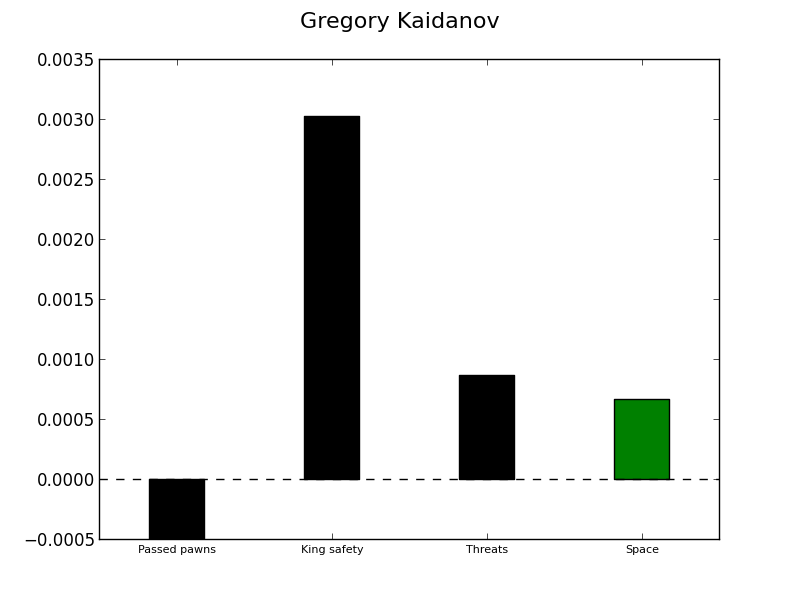
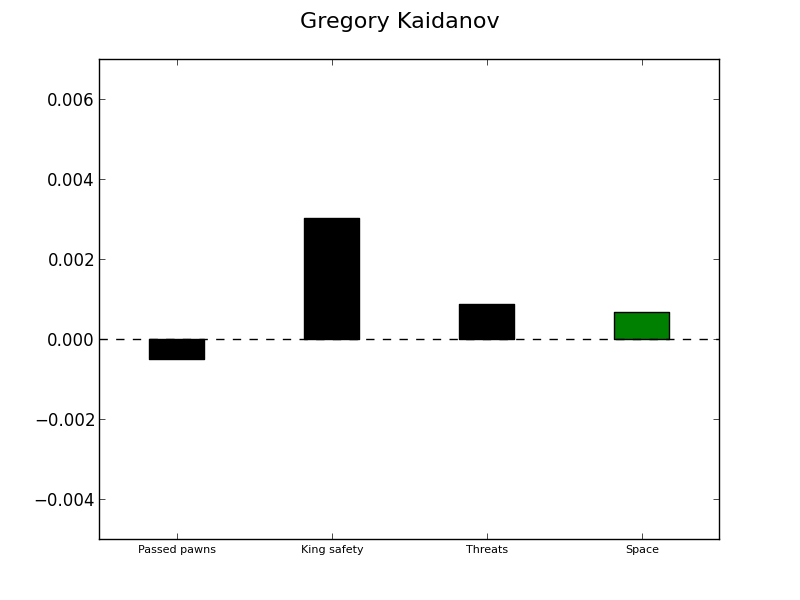
player character comparisons

diff --git a/player_character/make_player_character_comparison.py b/player_character/make_player_character_comparison.py
@@ -1,0 +1,72 @@
+import argparse
+import yaml
+import numpy as np
+from matplotlib import pyplot as plt
+import matplotlib.patches as mpatches
+import re
+
+
+parser = argparse.ArgumentParser(formatter_class=argparse.ArgumentDefaultsHelpFormatter)
+parser.add_argument("yaml_file", help="Path to the yaml file with the position choice data.", nargs=2)
+args = parser.parse_args()
+
+
+	
+p1 = open(args.yaml_file[0])
+p1_data = yaml.safe_load(p1)
+p1.close()
+
+p2 = open(args.yaml_file[1])
+p2_data = yaml.safe_load(p2)
+p2.close()
+
+
+m = open("running_choice_average.yml")
+mean_data = yaml.safe_load(m)
+m.close()
+
+attributes = ['Passed pawns','Space', 'King safety', 'Threats']
+n = np.arange(len(attributes))
+bars = []
+colors = []
+for attribute in attributes:
+	val = p1_data[attribute]['mg']['mean'] - p2_data[attribute]['mg']['mean']
+	bars.append(val) 
+	# if p_val <= 0.05:
+	if val >= 0:
+		colors.append('g')
+	else:
+		colors.append('r')
+
+
+rx = re.compile(r'\.|\/')
+parts1 = rx.split(args.yaml_file[0])
+parts2 = rx.split(args.yaml_file[1])
+
+player_name1 = parts1[len(parts1)-2]
+player_name2 = parts2[len(parts2)-2]
+
+b = plt.barh(n, bars, 0.35, align='center', color=colors)
+# plt.legend([player_name1,player_name2], loc=0)
+# plt.legend([b],[player_name1], loc=1)
+# plt.legend([b],[player_name2], loc=0)
+
+p1_patch = mpatches.Patch(color='green', label=player_name1)
+p2_patch = mpatches.Patch(color='red', label=player_name2)
+plt.legend([p2_patch, p1_patch], [player_name2, player_name1],bbox_to_anchor=(0., 1.02, 1., .102), loc=3,
+           ncol=2, mode="expand", borderaxespad=0.)
+
+plt.axvline(x=0,color='k',ls='dashed')
+
+# plt.xlim([-0.005, 0.007])
+
+plt.xlim([-0.009, 0.009])
+
+plt.yticks(n ,attributes, fontsize='12')
+# plt.suptitle(player_name2 + " v. " + player_name1, fontsize='16')
+
+# l2 = plt.legend([player_name2], loc=0)
+
+plt.savefig('graphs/' + player_name1 + "v" + player_name2 + ".png")
+plt.show()
+

diff --git a/data_spec.md b/data_spec.md
@@ -2,10 +2,10 @@
 
 ### Player Stats
 
-* **Mobility** A number from 0-100.
-* **Positional** A number from 0-100.
-* **Tactical** A number from 0-100.
-* **Materialistic** A number from 0-100.
+* **Threats** A number from 0-100.
+* **King safety** A number from 0-100.
+* **Space** A number from 0-100.
+* **Passed pawns** A number from 0-100.
 * **Queen Trade Frequency** A percentage from 0-100 representing how often queen trades occur in their games (0-100). (only present if statistically significant, otherwise it will say "typical")
 * **Queen Trade Win Rate** A percentage from 0-100 representing the player's win rate after a queen trade. This could also be considered a stand-in for how good their end-game is (only present if statistically significant, otherwise it will say "typical").
 * **Average Win Length** A number indicating average length of their winning games in moves. (only present if statistically significant, otherwise it will say "typical")
@@ -16,11 +16,18 @@
 
 * **Elo Odds** Given the Elo scores of two players facing each other, my [Elo Calculator](http://gregborenstein.com/assets/chess/elo_calculator.html) can tell you the odds of the player with the higher Elo score winning. This takes the form of a percentage or a fractional odds.
 
+* **Relative Characteristics** Given two players we compare their player characteristics (Threats, King safety, Passed Pawns, and Space) to indicate who's stronger in each area. This will be a relative number from -1 to 1 with negative values indicating an advantage for player 2 and positive values indicating an advantage for player 1.
+
+**Example**
+
+<a href="https://www.flickr.com/photos/unavoidablegrain/15300637806" title="Maurice Ashley v. Eugene Perelshteyn by Greg Borenstein, on Flickr"><img src="https://farm6.staticflickr.com/5569/15300637806_b51c559b85_o.png" width="800" height="600" alt="Maurice Ashley v. Eugene Perelshteyn"></a>
+
 **Example** 
 
     Player 1: 2710
     Player 2: 2680
     => "57% chance of victory for player 1 (about a 3/5 chance of winning)"
+
 
 
 * **Average Elo Bracket Game Length** The average game length for players of this Elo bracket. Given in number of moves. Again, given the Elo scores for two players, I'll provide a calculator that will tell you the average game length for their Elo rating.
